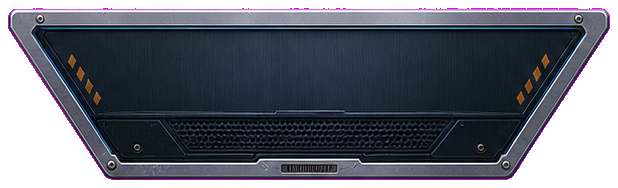
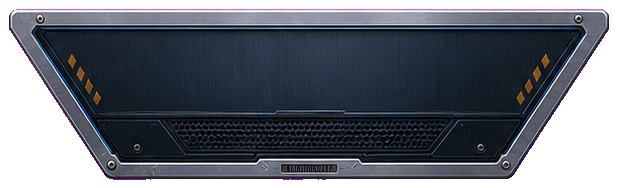
Add mechanical table details

diff --git a/game.js b/game.js
@@ -40,7 +40,12 @@
     "lamp-post-green": { src: "assets/images/lamp-post-green.png", width: 34, height: 67 },
     "playfield-floor-texture": { src: "assets/images/playfield-floor-texture.png", width: 900, height: 1374 },
     "table-frame-trim": { src: "assets/images/table-frame-trim.png", width: 900, height: 1344 },
-    "drain-apron": { src: "assets/images/drain-apron.png", width: 336, height: 102 }
+    "drain-apron": { src: "assets/images/drain-apron.png", width: 336, height: 102 },
+    "lower-plastic-left": { src: "assets/images/lower-plastic-left.png", width: 204, height: 171 },
+    "lower-plastic-right": { src: "assets/images/lower-plastic-right.png", width: 204, height: 169 },
+    "shooter-plunger-housing": { src: "assets/images/shooter-plunger-housing.png", width: 54, height: 246 },
+    "mechanical-post-blue": { src: "assets/images/mechanical-post-blue.png", width: 32, height: 48 },
+    "mechanical-post-orange": { src: "assets/images/mechanical-post-orange.png", width: 32, height: 51 }
   };
   const TABLE_CONFIG = {
     bumpers: [
@@ -730,15 +735,43 @@
 
   function drawTableArtAssets() {
     drawDecorAsset("playfield-floor-texture", 450, 700, 900, 1374, {
-      alpha: 0.72,
+      alpha: 0.68,
       shadowBlur: 0,
       shadowOffsetY: 0
     });
 
     drawDecorAsset("table-frame-trim", 450, 700, 900, 1344, {
-      alpha: 0.34,
+      alpha: 0.3,
       shadowBlur: 18,
       shadowOffsetY: 7
+    });
+  }
+
+  function drawMechanicalDetailAssets() {
+    drawDecorAsset("lower-plastic-left", 194, 1216, 204, 171, {
+      alpha: 0.34,
+      shadowBlur: 10,
+      shadowOffsetY: 5
+    });
+    drawDecorAsset("lower-plastic-right", 706, 1216, 204, 169, {
+      alpha: 0.34,
+      shadowBlur: 10,
+      shadowOffsetY: 5
+    });
+    drawDecorAsset("shooter-plunger-housing", 838, 1034, 54, 246, {
+      alpha: 0.28,
+      shadowBlur: 9,
+      shadowOffsetY: 4
+    });
+    drawDecorAsset("mechanical-post-blue", 132, 1138, 32, 48, {
+      alpha: 0.54,
+      shadowBlur: 8,
+      shadowOffsetY: 4
+    });
+    drawDecorAsset("mechanical-post-orange", 768, 1138, 32, 51, {
+      alpha: 0.54,
+      shadowBlur: 8,
+      shadowOffsetY: 4
     });
   }
 
@@ -1015,7 +1048,7 @@
 
   function syncInspectableState(physics) {
     window.ImpolPinball = {
-      phase: "9.2",
+      phase: "9.3",
       matterLoaded: Boolean(MatterLib),
       staticBodyCount: physics ? physics.staticBodies.length : 0,
       tableObjectCount: physics ? physics.bumperBodies.length + physics.targetBodies.length : 0,
@@ -1086,6 +1119,7 @@
     drawLabel("ALUMINIUM INDUSTRY", canvas.width / 2, 230, "#9ab3bf", 24);
 
     drawConfiguredBumpers();
+    drawMechanicalDetailAssets();
     drawLowerLanePolish();
 
     context.fillStyle = "#1b3541";

diff --git a/assets/images/README.md b/assets/images/README.md
@@ -26,6 +26,10 @@ Supporting files:
 - `playfield-floor-texture.png` - cropped transparent playfield floor texture.
 - `table-frame-trim.png` - cropped transparent aluminium table frame trim.
 - `drain-apron.png` - cropped transparent lower drain apron.
+- `phase9-mechanical-detail-sheet.png` - generated Phase 9.3 source sheet for mechanical detail assets.
+- `lower-plastic-left.png`, `lower-plastic-right.png` - cropped lower playfield plastic guide plates.
+- `shooter-plunger-housing.png` - cropped shooter lane / plunger housing detail.
+- `mechanical-post-blue.png`, `mechanical-post-orange.png` - cropped decorative rubber/metal post caps.
 
 ## Style Notes
 
@@ -42,3 +46,5 @@ Phase 7.3 integrates these images as Canvas visual layers with fallback drawing 
 Phase 8.3b prepares additional visual-only assets for later integration. The first integration pass uses the flipper and lamp sprites while keeping Matter.js physics bodies unchanged.
 
 Phase 9.2 adds a background/frame asset pass with a playfield floor texture, table frame trim, and drain apron. These remain visual-only layers and do not change Matter.js collision bodies.
+
+Phase 9.3 adds lower playfield mechanical details, shooter lane housing art, and small decorative post caps. These also remain visual-only layers.

diff --git a/docs/implementation_plan.md b/docs/implementation_plan.md
@@ -596,10 +596,11 @@ Priority order:
   - Keep collision bodies unchanged unless artwork visibly exposes a mismatch.
   - Visible result: the table reads as one physical cabinet instead of a canvas with independent objects.
 
-- [ ] Phase 9.3 - Mechanical detail asset pack - Status: planned
+- [x] Phase 9.3 - Mechanical detail asset pack - Status: complete
   - Upgrade or replace flipper sprites if needed, keeping separate left/right assets.
   - Add visual-only plastics, metal brackets, lane dividers, screw caps, rubber posts, and small guide rails around the lower playfield.
   - Add a cleaner plunger knob, shooter lane meter, and launch gate artwork if the current drawn pieces still look too flat.
+  - Integrate the first pass as visual-only lower plastics, shooter housing, and post caps.
   - Visible result: the bottom third and shooter lane look finished in screenshots and during play.
 
 - [ ] Phase 9.4 - Industrial decoration asset pack - Status: planned